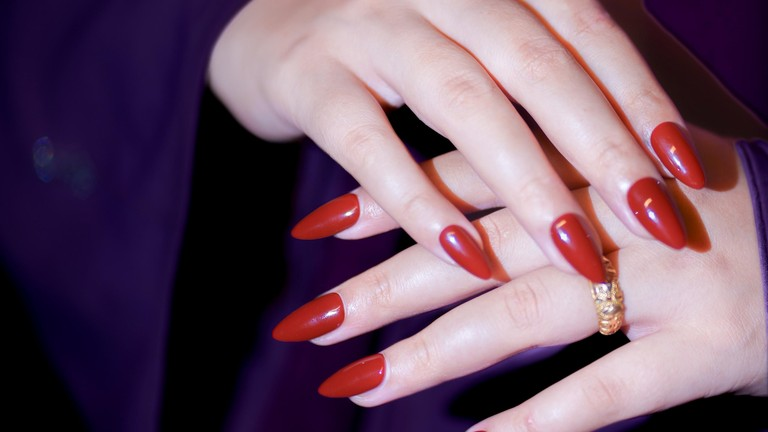
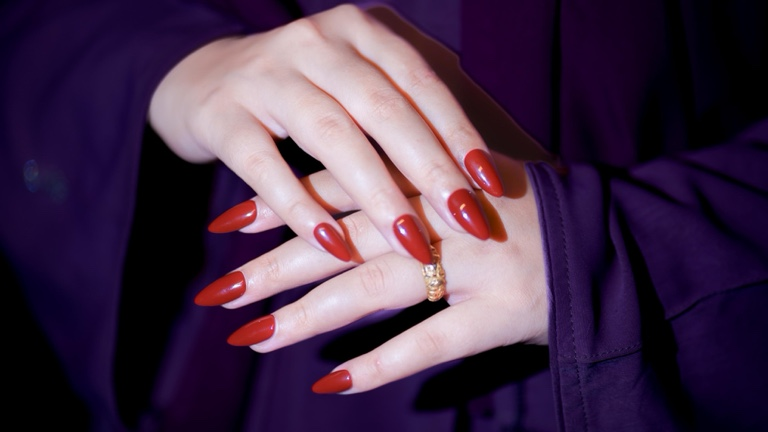
Home hero: restore full landscape photo + liquid-glass card
Reverted the asymmetric source crop — the full 4160×2340 frame is
back so all of the photo's air space and composition reads. Hands
no longer feel zoomed-in.

To keep both hands visible while the card sits on the left, swapped
the previous frosted-paper card for an Apple-style liquid-glass:
- background paper @ 42% opacity (was 82%) — refracts the photo
- backdrop-filter: blur(36px) saturate(180%) — heavy frost + colour pop
- inset 1px white highlight on the top edge — "glass meniscus"
- soft layered drop shadow for depth
- 1px white/42 border for a defined edge
- @supports fallback to higher opacity (85%) on browsers without
  backdrop-filter so text contrast stays WCAG-safe (older Edge, etc.)

Also dropped the heavy left-side ink/35 gradient — it was added to
help readability on the old solid card and now just dulls what the
glass is supposed to refract. Kept the gentle bottom-up vignette.

diff --git a/resources/views/home.blade.php b/resources/views/home.blade.php
@@ -26,6 +26,32 @@
     />
 @endsection
 
+@push('head')
+<style>
+  /* Hero card — Apple-style "liquid glass" effect:
+     translucent paper tint, heavy backdrop blur with saturation boost,
+     a subtle inner top highlight, and a layered shadow set. Background
+     refracts through so the photo behind stays visible while text on
+     top remains crisply readable. */
+  .liquid-glass {
+    background-color: rgba(251, 248, 242, 0.42); /* paper at 42% */
+    backdrop-filter: blur(36px) saturate(180%);
+    -webkit-backdrop-filter: blur(36px) saturate(180%);
+    border: 1px solid rgba(255, 255, 255, 0.42);
+    box-shadow:
+      inset 0 1px 0 rgba(255, 255, 255, 0.72),
+      inset 0 -1px 0 rgba(255, 255, 255, 0.10),
+      0 16px 48px -12px rgba(28, 23, 39, 0.28),
+      0 6px 20px -4px rgba(28, 23, 39, 0.12);
+  }
+  /* Older Safari + browsers that don't support backdrop-filter: bump opacity
+     a notch so text contrast stays WCAG-safe without the blur. */
+  @supports not ((backdrop-filter: blur(4px)) or (-webkit-backdrop-filter: blur(4px))) {
+    .liquid-glass { background-color: rgba(251, 248, 242, 0.85); }
+  }
+</style>
+@endpush
+
 @section('content')
 
 {{-- ═══════════════════════════════════════════
@@ -56,13 +82,13 @@
                 onerror="this.parentElement.remove()"
                 width="1920" height="1080">
         </picture>
-        <div class="absolute inset-0 bg-gradient-to-r from-ink/35 via-ink/15 to-transparent"></div>
+        {{-- Subtle vignette — keeps the brand mood without dulling the photo behind the glass card --}}
         <div class="absolute inset-0 bg-gradient-to-t from-ink/15 via-transparent to-transparent"></div>
     </div>
 
-    {{-- Frosted editorial card --}}
+    {{-- Liquid-glass editorial card — translucent so the photo behind stays visible --}}
     <div class="relative z-10 max-w-7xl mx-auto px-6 lg:px-10 py-24 w-full">
-        <div class="w-full max-w-[560px] bg-paper/82 backdrop-blur-[14px] rounded-2xl border border-white/35 shadow-2xl shadow-ink/15 p-10 md:p-14">
+        <div class="liquid-glass w-full max-w-[560px] rounded-3xl p-10 md:p-14">
 
             <div class="flex flex-wrap gap-2 mb-6">
                 <span class="inline-flex items-center rounded-full border border-lavender/40 bg-lavender/10 px-3 py-1 font-sans font-medium text-lavender-ink"
